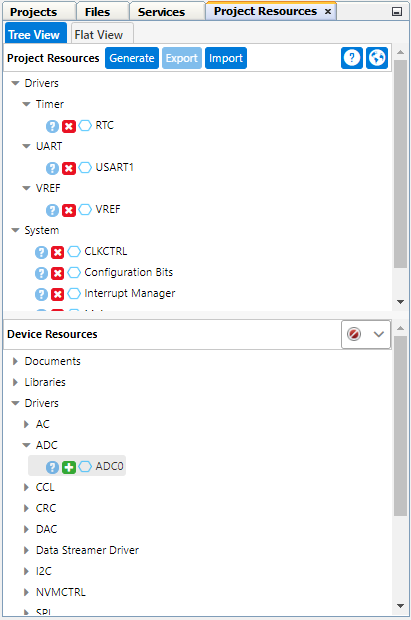
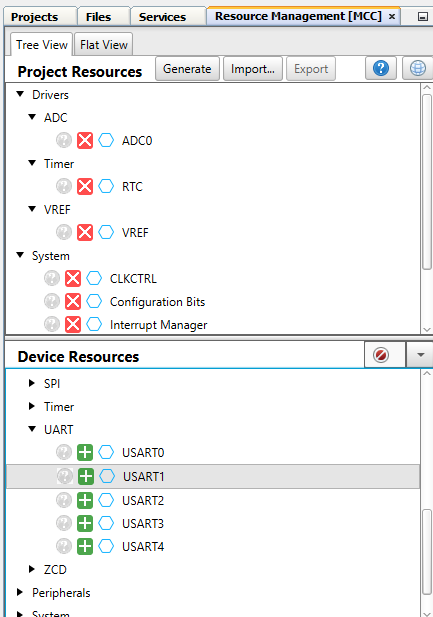
MPAE-11216 updated readme file

Changed region(s): [[0.0, 0.0, 1.0, 1.0]]

diff --git a/README.md b/README.md
@@ -146,7 +146,7 @@ Configure ADC, RTC, VREF and USART peripherals through Microchip Code Configurat
 </p>
 
 9.	Add ADC, VREF, USART and RTC peripherals to the project .
-* Click on Project Resources, located on top side of the window.
+* Click on Resource Management[MCC], located on top side of the window.
 * To add peripherals to the project, select ADC, VREF, RTC, USART under Device Resources---> under Drivers, by clicking on (+) button as shown in Fig 13.
 * All selected peripherals should be in Project Resources.
 
